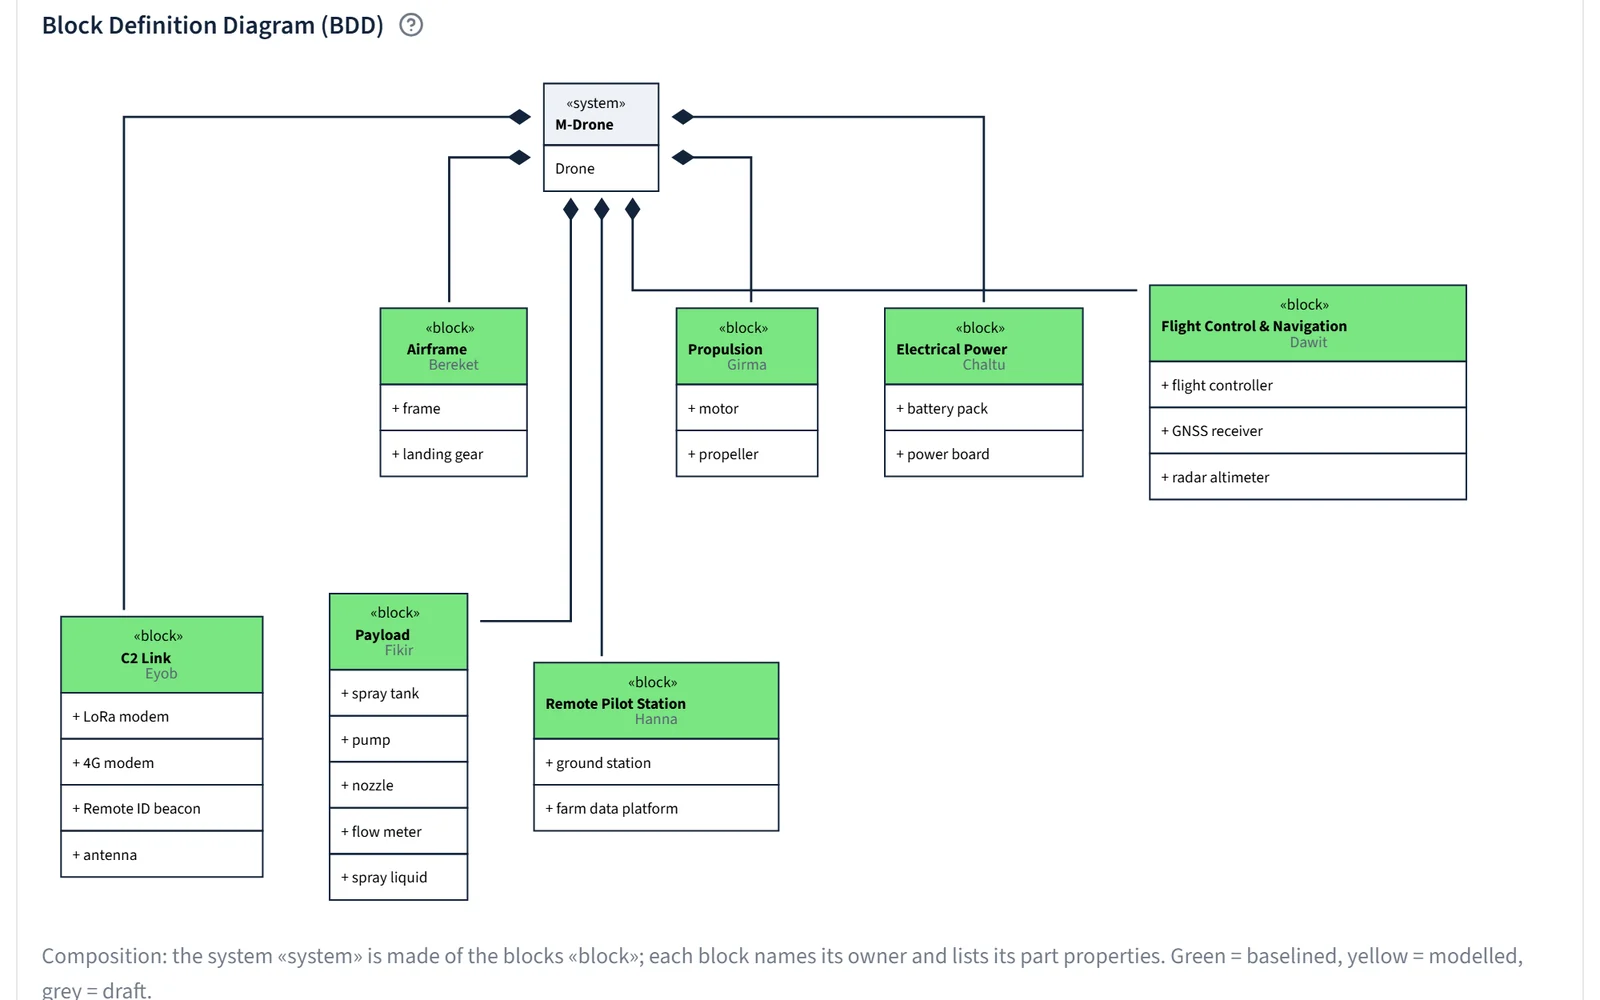
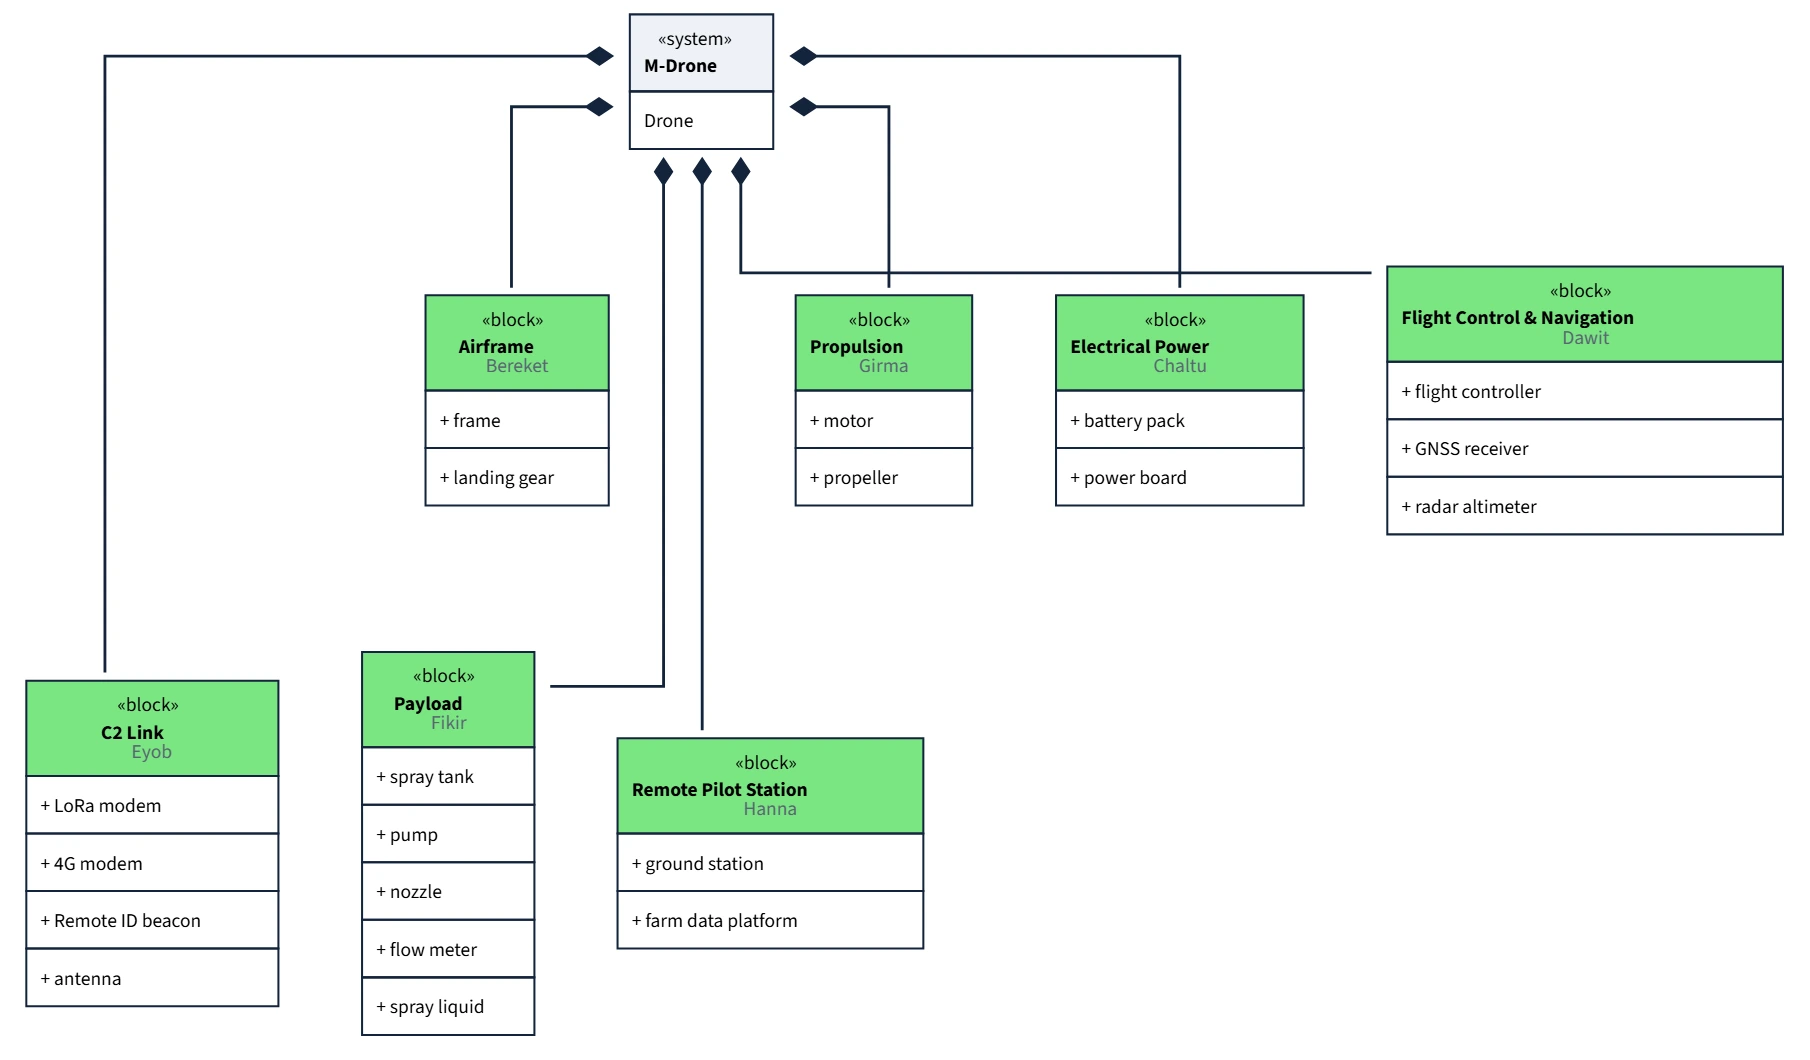
ModelHer: high-level views only, sharper and larger screenshots

Changed region(s): [[0.0, 0.0, 1.0, 1.0], [0.4375, 0.031, 0.6562, 0.062]]

diff --git a/src/lib/projects.ts b/src/lib/projects.ts
@@ -33,18 +33,15 @@ export const projects: Project[] = [
     type: "SYSTEMS ENGINEERING",
     description: "Mission planner for drones, satellites, embedded systems and manufactured hardware",
     detail:
-      "Our systems engineering product for teams that design drones, CanSats, CubeSats, embedded systems and manufactured hardware. Teams draw the system context and the architecture, write the requirements and the operation concept, and track mass and energy budgets in one connected model. Each review gate is approved or returned with comments, and engineering metrics show how ready the design is.",
+      "Our systems engineering product for teams that design drones, CanSats, CubeSats, embedded systems and manufactured hardware. The whole team works on one connected model of the system, from the mission to the architecture, and follows the design from first idea to flight readiness.",
     tags: ["Systems engineering", "Hardware"],
     art: "systems-product",
     status: "Demo on request",
     url: "",
     demo: true,
     previews: [
-      { src: asset("modelher/context.webp"), label: "System context", alt: "System context of a crop-spraying drone: the drone inside the system boundary, with the operators, farm data platform, ground control station, field and regulator around it and what crosses the boundary.", width: 1600, height: 1000 },
-      { src: asset("modelher/bdd.webp"), label: "Architecture", alt: "Block definition diagram of the drone: airframe, propulsion, electrical power, flight control, payload, C2 link and remote pilot station, each with its parts and owner.", width: 1600, height: 1000 },
-      { src: asset("modelher/req.webp"), label: "Requirements", alt: "System requirements of the drone, each with its subsystem, type, parent objective and verification method, and the review gates approved.", width: 1600, height: 1000 },
-      { src: asset("modelher/conops.webp"), label: "Operation concept", alt: "Operation concept of the drone: endurance, distance, altitude and payload limits, and each flight phase from pre-flight to post-flight.", width: 1600, height: 1000 },
-      { src: asset("modelher/metrics.webp"), label: "Engineering metrics", alt: "Engineering metrics for the requirements review: requirement completeness, traceability, coverage and satisfaction against their thresholds.", width: 1600, height: 1000 },
+      { src: asset("modelher/context.webp"), label: "System context", alt: "System context of a crop-spraying drone: the drone inside the system boundary, with the operators, farm data platform, ground control station, field and regulator around it and what crosses the boundary.", width: 1900, height: 830 },
+      { src: asset("modelher/bdd.webp"), label: "Architecture", alt: "Block diagram of the drone: airframe, propulsion, electrical power, flight control, payload, C2 link and remote pilot station, each with its parts.", width: 1810, height: 1060 },
     ],
   },
   {

diff --git a/src/styles/pages.css b/src/styles/pages.css
@@ -1246,3 +1246,28 @@ q.hook-quote::after {
     letter-spacing: -0.5px;
   }
 }
+
+/* Project screenshots: a wider dialog and a taller picture so the text in them
+   can be read. */
+.dialog-content:has(> .project-art-preview) {
+  width: min(960px, calc(100% - 36px));
+}
+.dialog-content > .project-art-preview {
+  height: auto;
+  padding: 12px;
+}
+.dialog-content > .project-art-preview img {
+  height: auto;
+  max-height: min(520px, 60dvh);
+}
+/* ModelHer's card fills its frame with the drone at the centre of the diagram. */
+.project-card .project-art-preview.art-systems-product {
+  padding: 0;
+  background: #ffffff;
+}
+.project-card .art-systems-product img {
+  position: absolute;
+  inset: 0;
+  object-fit: cover;
+  object-position: 50% 45%;
+}

diff --git a/public/projects/README.md b/public/projects/README.md
@@ -41,7 +41,7 @@ they do not imply endorsement of the application or this website.
 
 ## ModelHer
 
-Screenshots of AndHub's own ModelHer, opened on its worked M-Drone example project
+High-level views (system context and block diagram) of AndHub's own ModelHer, opened on its
 (a crop-spraying drone), cropped to the page content on 2026-11-26.
 
 ## SiraYe
